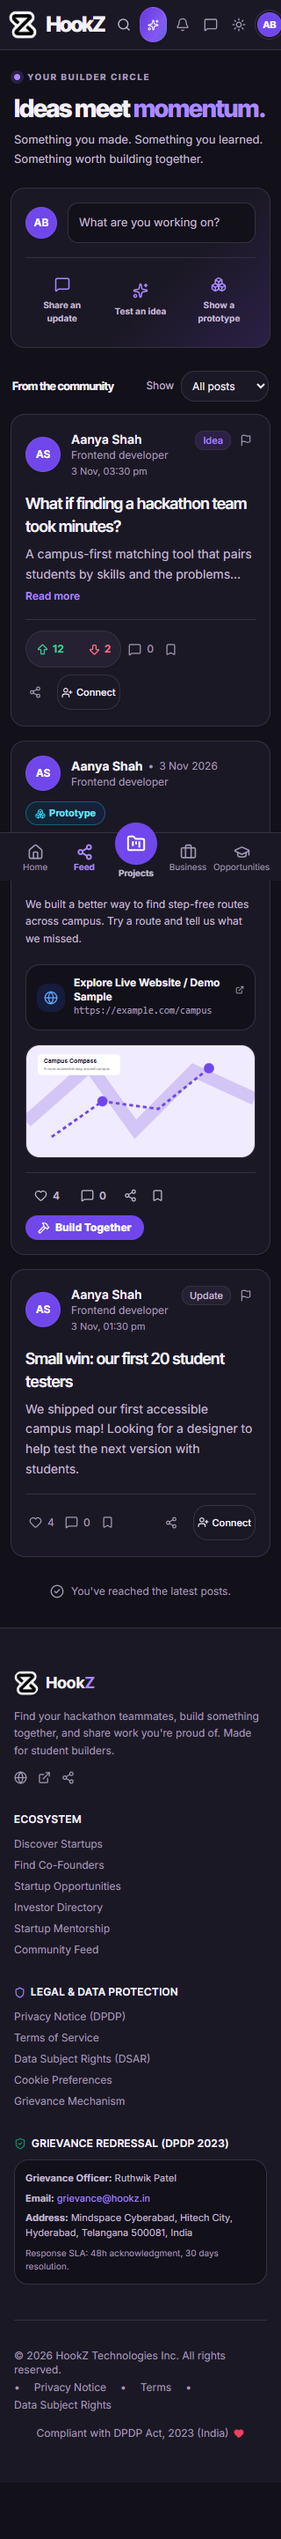
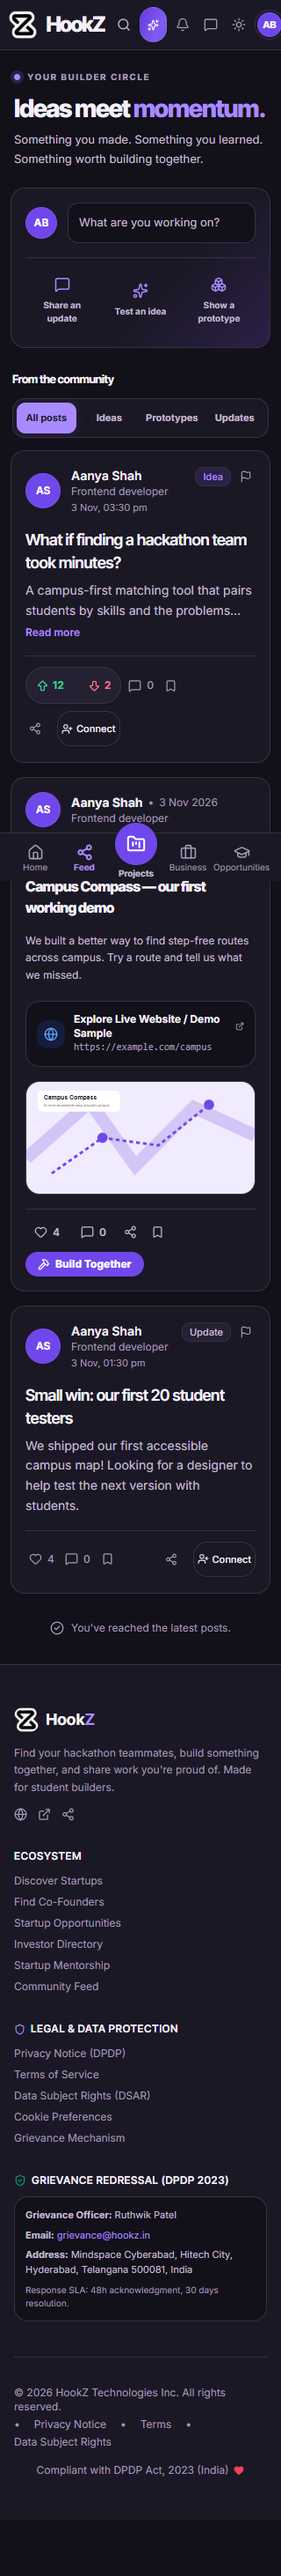
G -7

Changed region(s): [[0.0312, 0.0, 0.9375, 0.9677], [0.9062, 0.1249, 0.9375, 0.1561], [0.6562, 0.9365, 0.6875, 0.9677]]

diff --git a/client/src/pages/Feed/StartupFeedPage.tsx b/client/src/pages/Feed/StartupFeedPage.tsx
@@ -14,6 +14,7 @@ import { SEO } from '../../components/common/SEO';
 import { ShareModal, ShareItemData } from '../../components/common/ShareModal';
 import { sanitizeExternalUrl } from '../../utils/urlSecurity';
 import './StartupFeedPage.css';
+import { postDisplayTitle } from '../../utils/postDisplayTitle';
 import {
   Share2,
   Heart,
@@ -119,14 +120,15 @@ export const StartupFeedPage: React.FC = () => {
     }
     const loadConnections = async () => {
       try {
-        const data = await fetchUserConnections(user.id);
+        const data = await fetchUserConnections(user.id, true);
         setConnectedUserIds(data.connectedIds);
       } catch {}
     };
     loadConnections();
     const handleUpdate = () => loadConnections();
     window.addEventListener('connections_updated', handleUpdate);
-    return () => window.removeEventListener('connections_updated', handleUpdate);
+    window.addEventListener('focus', handleUpdate);
+    return () => { window.removeEventListener('connections_updated', handleUpdate); window.removeEventListener('focus', handleUpdate); };
   }, [user?.id]);
 
   // Reddit/Hacker News style idea post votes tracking: postId -> 'up' | 'down' | null
@@ -1383,15 +1385,11 @@ export const StartupFeedPage: React.FC = () => {
 
       <div className="feed-stream-heading">
         <h2>From the community</h2>
-        <label className="flex items-center gap-2 text-xs text-[var(--text-secondary)]">
-          Show
-          <select aria-label="Filter feed by format" value={feedFormat} onChange={(event) => setFeedFormat(event.target.value)} className="input-base px-2 py-2 text-xs">
-            <option value="ALL">All posts</option>
-            <option value="IDEA">Ideas</option>
-            <option value="PROTOTYPE">Prototypes</option>
-            <option value="UPDATE">Updates</option>
-          </select>
-        </label>
+        <div className="feed-format-options" role="group" aria-label="Filter feed by format">
+          {[['ALL', 'All posts'], ['IDEA', 'Ideas'], ['PROTOTYPE', 'Prototypes'], ['UPDATE', 'Updates']].map(([value, label]) => (
+            <button key={value} type="button" aria-pressed={feedFormat === value} onClick={() => setFeedFormat(value)}>{label}</button>
+          ))}
+        </div>
       </div>
       {loading ? (
         <div className="space-y-4">
@@ -1503,9 +1501,9 @@ export const StartupFeedPage: React.FC = () => {
 
                 {/* Post Body */}
                 <div className="space-y-2 min-w-0 break-words">
-                  {post.title && (
+                  {postDisplayTitle(post.title) && (
                     <h3 className="font-semibold text-base text-[var(--text-primary)] break-words">
-                      {post.title}
+                      {postDisplayTitle(post.title)}
                     </h3>
                   )}
                   <div>

diff --git a/server/src/routes/posts.js b/server/src/routes/posts.js
@@ -1,3 +1,4 @@
+import { privatePost, postAudienceAuthors, postAudienceWhere } from '../utils/postAudience.js';
 import fs from 'fs';
 import path from 'path';
 import { fileURLToPath } from 'url';
@@ -42,7 +43,8 @@ router.get('/', optionalAuth, async (req, res) => {
     const limitNum = parseInt(limit, 10);
     const skip = (pageNum - 1) * limitNum;
 
-    const where = {};
+    const audience = await postAudienceAuthors(getUserCandidateIds(req.user), prisma, supabaseAdmin);
+    const where = { AND: [postAudienceWhere(audience)] };
     if (deletedPostIds.size > 0) {
       where.id = { notIn: Array.from(deletedPostIds) };
     }
@@ -281,6 +283,9 @@ router.post('/', requireAuth, postCreationLimiter, async (req, res) => {
       safeStartupId = startup.id;
     }
 
+    const storedTitle = req.body.visibility === 'CONNECTIONS'
+      ? '[Connections Only] ' + (title || '').replace(/^\s*\[Connections Only\]\s*/i, '').trim()
+      : (title ? title.trim() : null);
     const finalLinks = links || websiteUrl || null;
     const finalImages = images || mediaUrl || null;
 
@@ -289,7 +294,7 @@ router.post('/', requireAuth, postCreationLimiter, async (req, res) => {
         authorId: req.user.id,
         startupId: safeStartupId,
         postType,
-        title: title ? title.trim() : null,
+        title: storedTitle,
         content: content.trim(),
         images: finalImages,
         links: finalLinks,
@@ -316,7 +321,7 @@ router.post('/', requireAuth, postCreationLimiter, async (req, res) => {
           author_id: req.user.id,
           startup_id: safeStartupId,
           post_type: postType,
-          title: title ? title.trim() : null,
+          title: storedTitle,
           content: content.trim(),
           images: finalImages,
           links: finalLinks,
@@ -353,6 +358,20 @@ router.post('/', requireAuth, postCreationLimiter, async (req, res) => {
   }
 });
 
+
+// Apply the same audience rule to direct post actions and comment reads.
+router.use('/:id/:action', optionalAuth, async (req, res, next) => {
+  if (!['like', 'vote', 'comments', 'proposals'].includes(req.params.action)) return next();
+  try {
+    const post = await ensurePostInPrisma(req.params.id);
+    if (!post) return res.status(404).json({ error: 'Post not found.' });
+    if (privatePost(post)) {
+      const authors = await postAudienceAuthors(getUserCandidateIds(req.user), prisma, supabaseAdmin);
+      if (!authors.has(post.authorId)) return res.status(404).json({ error: 'Post not found.' });
+    }
+    next();
+  } catch { res.status(503).json({ error: 'Unable to verify post access.' }); }
+});
 
 // Helper to ensure a post exists in Prisma (syncing from Supabase if needed)
 async function ensurePostInPrisma(postId) {

diff --git a/server/src/utils/postAudience.js b/server/src/utils/postAudience.js
@@ -1,0 +1,30 @@
+export const privatePost = (post) => post?.visibility === 'CONNECTIONS' || /\[Connections Only\]/i.test(post?.title || '');
+
+// Supabase relationship state wins when both stores know the same pair.
+export async function postAudienceAuthors(viewerIds, prisma, supabase) {
+  const authors = new Set(viewerIds);
+  if (!viewerIds.length) return authors;
+  const rows = await prisma.connection.findMany({ where: { status: 'ACCEPTED', OR: [
+    { senderId: { in: viewerIds } }, { receiverId: { in: viewerIds } },
+  ] } });
+  for (const row of rows) authors.add(viewerIds.includes(row.senderId) ? row.receiverId : row.senderId);
+  if (supabase) {
+    const ids = viewerIds.filter(id => /^[0-9a-f-]{36}$/i.test(id));
+    if (ids.length) {
+      const { data, error } = await supabase.from('connections').select('sender_id,receiver_id,status')
+        .or(ids.flatMap(id => [`sender_id.eq.${id}`, `receiver_id.eq.${id}`]).join(','));
+      if (error) throw error; // Never grant access based on possibly stale relationships.
+      for (const row of data || []) {
+        const other = viewerIds.includes(row.sender_id) ? row.receiver_id : row.sender_id;
+        if (row.status === 'ACCEPTED') authors.add(other);
+        else authors.delete(other);
+      }
+    }
+  }
+  return authors;
+}
+
+export const postAudienceWhere = authors => ({ OR: [
+  { title: null }, { NOT: { title: { contains: '[Connections Only]', mode: 'insensitive' } } },
+  { authorId: { in: [...authors] } },
+] });

diff --git a/client/src/pages/Feed/StartupFeedPage.css b/client/src/pages/Feed/StartupFeedPage.css
@@ -18,6 +18,15 @@
 .feed-stream-heading { display: flex; align-items: center; justify-content: space-between; gap: 12px; margin: 26px 2px 14px; }
 .hookz-feed .feed-stream-heading h2 { font-size: 13px; font-weight: 700; }
 .feed-stream-heading > span { color: var(--text-muted); font-size: 11px; }
+.feed-stream-heading { flex-wrap: wrap; }
+.feed-format-options { display: flex; gap: 4px; padding: 4px; border: 1px solid var(--border-subtle); background: var(--bg-surface); border-radius: 14px; }
+.feed-format-options button { padding: 9px 12px; border-radius: 10px; font-size: 12px; font-weight: 650; color: var(--text-secondary); transition: background .2s, color .2s; }
+.feed-format-options button:hover { background: var(--brand-soft); color: var(--brand-primary); }
+.feed-format-options button[aria-pressed=true] { background: var(--brand-primary); color: var(--bg-surface); box-shadow: 0 2px 8px #7047eb25; }
+@media (max-width: 639px) {
+  .feed-format-options { width: 100%; }
+  .feed-format-options button { flex: 1; padding: 9px 4px; font-size: 11px; }
+}
 .hookz-feed .feed-post { box-shadow: 0 3px 18px #201d3204; transition: border-color .2s, box-shadow .2s; }
 .hookz-feed .feed-post:hover { border-color: color-mix(in srgb, var(--brand-primary) 24%, var(--border-subtle)); box-shadow: 0 6px 24px #201d3208; }
 .feed-type-idea { background: var(--brand-soft); color: var(--brand-primary); border-color: var(--border-subtle); }

diff --git a/client/src/lib/supabase.ts b/client/src/lib/supabase.ts
@@ -1018,14 +1018,14 @@ export async function fetchUserConnections(userId: string, forceRefresh = false)
         }
       }
 
-      // Fallback to backend only if Supabase request encountered an error (offline / network failure)
-      if (hadSupabaseError && connectionList.length === 0) {
+      // Merge backend-only accepted relationships for the signed-in user.
+      if ((await supabase.auth.getSession()).data.session?.user.id === lookupId) {
         try {
           const apiConns = await api.getConnections().catch(() => null);
           if (apiConns && Array.isArray(apiConns.connections)) {
             apiConns.connections.forEach((conn: any) => {
               const otherId = conn.userId || conn.user?.id || (conn.senderId === lookupId ? conn.receiverId : conn.senderId);
-              if (otherId && otherId !== lookupId && !locallyRemoved.has(conn.connectionId || '') && !locallyRemoved.has(otherId)) {
+              if (otherId && otherId !== lookupId && !statusMap.has(otherId) && (!conn.status || conn.status === 'ACCEPTED') && !locallyRemoved.has(conn.connectionId || '') && !locallyRemoved.has(otherId)) {
                 connectedIds.add(otherId);
                 statusMap.set(otherId, 'ACCEPTED');
                 connInfoMap.set(otherId, {

diff --git a/client/src/pages/Profile/ProfilePage.tsx b/client/src/pages/Profile/ProfilePage.tsx
@@ -1,3 +1,4 @@
+import { postDisplayTitle } from '../../utils/postDisplayTitle';
 import React, { useEffect, useState, useRef } from 'react';
 import { useParams, useNavigate, Link, useSearchParams } from 'react-router-dom';
 import { useAuth } from '../../context/AuthContext';
@@ -2040,9 +2041,9 @@ export const ProfilePage: React.FC = () => {
                     )}
                   </div>
 
-                  {post.title && (
+                  {postDisplayTitle(post.title) && (
                     <h3 className="font-bold text-sm text-[var(--text-primary)] break-words">
-                      {post.title}
+                      {postDisplayTitle(post.title)}
                     </h3>
                   )}
 

diff --git a/client/src/components/prototypes/PrototypeCard.tsx b/client/src/components/prototypes/PrototypeCard.tsx
@@ -1,4 +1,5 @@
 import React, { useState, useEffect } from 'react';
+import { postDisplayTitle } from '../../utils/postDisplayTitle';
 import { Link, useNavigate } from 'react-router-dom';
 import { useAuth } from '../../context/AuthContext';
 import { api } from '../../services/api';
@@ -433,7 +434,7 @@ export const PrototypeCard: React.FC<PrototypeCardProps> = ({
         {/* 2. Prototype Title */}
         <div>
           <h3 className="text-base sm:text-lg font-extrabold text-[var(--text-primary)]  tracking-tight">
-            {post.title || 'Untitled Prototype'}
+            {postDisplayTitle(post.title) || 'Untitled Prototype'}
           </h3>
         </div>
 

diff --git a/client/src/utils/postDisplayTitle.ts b/client/src/utils/postDisplayTitle.ts
@@ -1,0 +1,3 @@
+// Legacy audience metadata remains in storage for compatibility, never in headings.
+export const postDisplayTitle = (title?: string | null) =>
+  (title || '').replace(/^\s*\[Connections Only\]\s*/i, '').trim();

diff --git a/.gsd/JOURNAL.md b/.gsd/JOURNAL.md
@@ -1,5 +1,14 @@
 # Validation journal
 
+## 2026-11-03 — Connections audience repair and format buttons
+
+- Connection lookup previously ignored backend-only accepted relationships when Supabase returned successfully with no rows. Merge the signed-in user's accepted backend relationships, honoring explicit Supabase states; refresh the feed's connections on focus and connection changes.
+- Hide legacy audience metadata in feed/profile/prototype headings, retaining storage compatibility. Replace dropdown with accessible side-by-side pressed-state buttons.
+- API applies audience filtering before pagination and checks direct comment/action routes. POST honors the visibility payload. Migration 018 adds restrictive database SELECT policies for posts and their comments/likes.
+- `node scripts/test-post-audience.mjs`: PASS owner, both connection directions, pending/rejected, stranger, anonymous, comments/likes, backend-only relationships and migration idempotency using isolated PGlite PostgreSQL.
+- `node scripts/test-product-theme.cjs --feed`: six viewport/theme PASS results, including backend-only accepted connection visibility, non-connection exclusion, hidden marker-only headline, each format button and existing posting/actions. Mobile screenshot inspected.
+- Client production build passed (2118 modules); server syntax and diff checks passed. No live accounts were used. Migration 018 is prepared and tested but NOT applied to the live database; backend/frontend deployment and migration application are required for the live fix.
+
 ## 2026-11-03 — Unified feed and AI Scout
 
 - Replaced separate feed categories with one newest-first timeline. Removed legacy category labels and filters, retained existing idea voting, prototype demos, audience controls and publishing paths.
